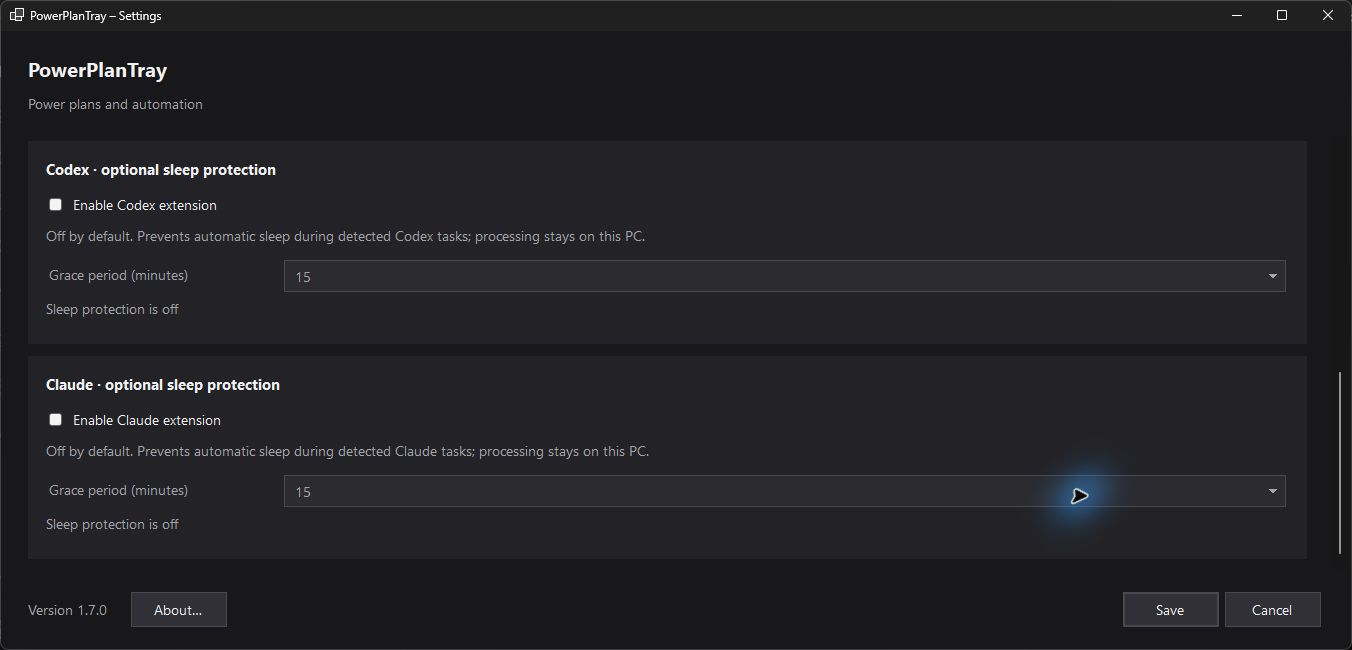
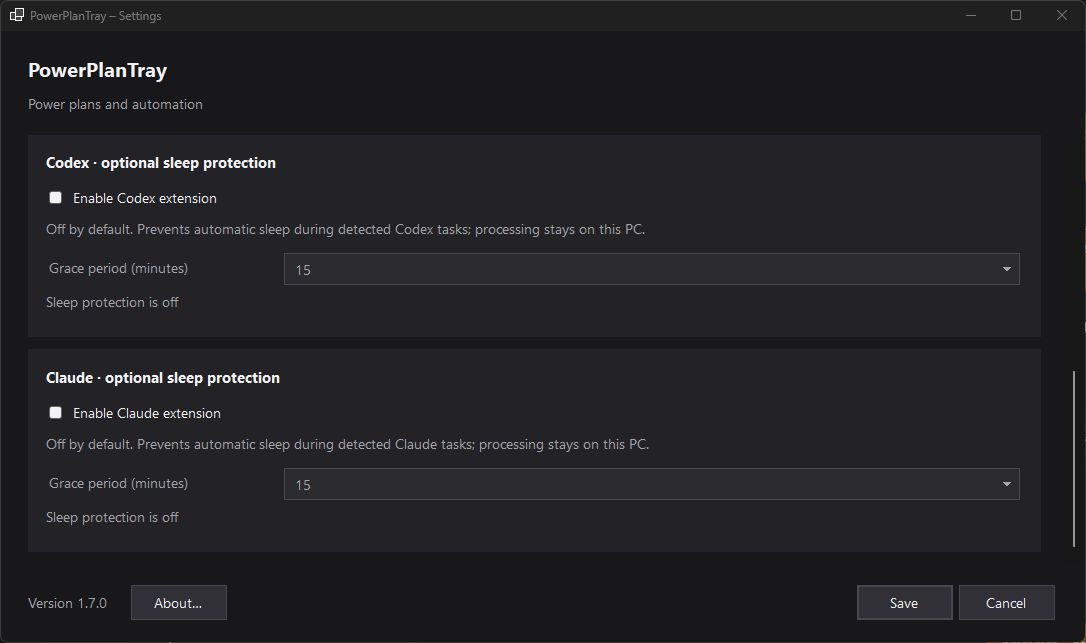
Recapture product screenshots without pointer highlights

diff --git a/docs/screenshots/1.7.0/de-extensions.html b/docs/screenshots/1.7.0/de-extensions.html
@@ -1,1 +1,1 @@
-<!doctype html><html lang="de"><meta charset="utf-8"><title>PowerPlanTray 1.7.0 – Codex und Claude getrennt steuern</title><style>*{box-sizing:border-box}html,body{margin:0;width:1366px;height:768px;overflow:hidden;background:#101114;color:#f2f3f5;font-family:Segoe UI,Arial,sans-serif}header{height:88px;padding:10px 24px;position:relative}h1{margin:0 0 5px;font-size:26px;font-weight:600}p{margin:0;font-size:16px;color:#bfc4ce}b{position:absolute;right:24px;top:20px;font-size:16px;color:#a4d1ff}img{display:block;position:absolute;left:7px;top:88px;width:1352px;height:650px}footer{position:absolute;bottom:7px;left:24px;font-size:12px;color:#afb5bf}</style><header><h1>Codex und Claude getrennt steuern</h1><p>Optionaler Standby-Schutz · Eigene Nachlaufzeit je Erweiterung · Standardmäßig aus</p><b>PowerPlanTray 1.7.0</b></header><img src="de-extensions.jpg" alt="PowerPlanTray 1.7.0"><footer>Originale App-Ansicht mit Beispieldaten</footer></html>
+<!doctype html><html lang="de"><meta charset="utf-8"><title>PowerPlanTray 1.7.0 – Codex und Claude getrennt steuern</title><style>*{box-sizing:border-box}html,body{position:relative;margin:0;width:1366px;height:768px;overflow:hidden;background:#101114;color:#f2f3f5;font-family:Segoe UI,Arial,sans-serif}header{height:88px;padding:10px 24px;position:relative}h1{margin:0 0 5px;font-size:26px;font-weight:600}p{margin:0;font-size:16px;color:#bfc4ce}b{position:absolute;right:24px;top:20px;font-size:16px;color:#a4d1ff}img{display:block;position:absolute;left:140px;top:88px;width:1086px;height:643px}footer{position:absolute;bottom:7px;left:24px;font-size:12px;color:#afb5bf}</style><header><h1>Codex und Claude getrennt steuern</h1><p>Optionaler Standby-Schutz · Eigene Nachlaufzeit je Erweiterung · Standardmäßig aus</p><b>PowerPlanTray 1.7.0</b></header><img src="de-extensions.jpg" alt="PowerPlanTray 1.7.0"><footer>Originale App-Ansicht mit Beispieldaten</footer></html>

diff --git a/docs/screenshots/1.7.0/de-settings.html b/docs/screenshots/1.7.0/de-settings.html
@@ -1,1 +1,1 @@
-<!doctype html><html lang="de"><meta charset="utf-8"><title>PowerPlanTray 1.7.0 – Energiepläne mit einem Klick wechseln</title><style>*{box-sizing:border-box}html,body{margin:0;width:1366px;height:768px;overflow:hidden;background:#101114;color:#f2f3f5;font-family:Segoe UI,Arial,sans-serif}header{height:88px;padding:10px 24px;position:relative}h1{margin:0 0 5px;font-size:26px;font-weight:600}p{margin:0;font-size:16px;color:#bfc4ce}b{position:absolute;right:24px;top:20px;font-size:16px;color:#a4d1ff}img{display:block;position:absolute;left:7px;top:88px;width:1352px;height:650px}footer{position:absolute;bottom:7px;left:24px;font-size:12px;color:#afb5bf}</style><header><h1>Energiepläne mit einem Klick wechseln</h1><p>Eigene Pläne auswählen · Automatik und Windows-Autostart einstellen</p><b>PowerPlanTray 1.7.0</b></header><img src="de-settings.jpg" alt="PowerPlanTray 1.7.0"><footer>Originale App-Ansicht mit Beispieldaten</footer></html>
+<!doctype html><html lang="de"><meta charset="utf-8"><title>PowerPlanTray 1.7.0 – Energiepläne mit einem Klick wechseln</title><style>*{box-sizing:border-box}html,body{position:relative;margin:0;width:1366px;height:768px;overflow:hidden;background:#101114;color:#f2f3f5;font-family:Segoe UI,Arial,sans-serif}header{height:88px;padding:10px 24px;position:relative}h1{margin:0 0 5px;font-size:26px;font-weight:600}p{margin:0;font-size:16px;color:#bfc4ce}b{position:absolute;right:24px;top:20px;font-size:16px;color:#a4d1ff}img{display:block;position:absolute;left:140px;top:88px;width:1086px;height:643px}footer{position:absolute;bottom:7px;left:24px;font-size:12px;color:#afb5bf}</style><header><h1>Energiepläne mit einem Klick wechseln</h1><p>Eigene Pläne auswählen · Automatik und Windows-Autostart einstellen</p><b>PowerPlanTray 1.7.0</b></header><img src="de-settings.jpg" alt="PowerPlanTray 1.7.0"><footer>Originale App-Ansicht mit Beispieldaten</footer></html>

diff --git a/docs/screenshots/1.7.0/en-extensions.html b/docs/screenshots/1.7.0/en-extensions.html
@@ -1,1 +1,1 @@
-<!doctype html><html lang="en"><meta charset="utf-8"><title>PowerPlanTray 1.7.0 – Control Codex and Claude separately</title><style>*{box-sizing:border-box}html,body{margin:0;width:1366px;height:768px;overflow:hidden;background:#101114;color:#f2f3f5;font-family:Segoe UI,Arial,sans-serif}header{height:88px;padding:10px 24px;position:relative}h1{margin:0 0 5px;font-size:26px;font-weight:600}p{margin:0;font-size:16px;color:#bfc4ce}b{position:absolute;right:24px;top:20px;font-size:16px;color:#a4d1ff}img{display:block;position:absolute;left:7px;top:88px;width:1352px;height:650px}footer{position:absolute;bottom:7px;left:24px;font-size:12px;color:#afb5bf}</style><header><h1>Control Codex and Claude separately</h1><p>Optional sleep protection · Separate grace periods · Both off by default</p><b>PowerPlanTray 1.7.0</b></header><img src="en-extensions.jpg" alt="PowerPlanTray 1.7.0"><footer>Original app view with example data</footer></html>
+<!doctype html><html lang="en"><meta charset="utf-8"><title>PowerPlanTray 1.7.0 – Control Codex and Claude separately</title><style>*{box-sizing:border-box}html,body{position:relative;margin:0;width:1366px;height:768px;overflow:hidden;background:#101114;color:#f2f3f5;font-family:Segoe UI,Arial,sans-serif}header{height:88px;padding:10px 24px;position:relative}h1{margin:0 0 5px;font-size:26px;font-weight:600}p{margin:0;font-size:16px;color:#bfc4ce}b{position:absolute;right:24px;top:20px;font-size:16px;color:#a4d1ff}img{display:block;position:absolute;left:140px;top:88px;width:1086px;height:643px}footer{position:absolute;bottom:7px;left:24px;font-size:12px;color:#afb5bf}</style><header><h1>Control Codex and Claude separately</h1><p>Optional sleep protection · Separate grace periods · Both off by default</p><b>PowerPlanTray 1.7.0</b></header><img src="en-extensions.jpg" alt="PowerPlanTray 1.7.0"><footer>Original app view with example data</footer></html>

diff --git a/docs/screenshots/1.7.0/en-settings.html b/docs/screenshots/1.7.0/en-settings.html
@@ -1,1 +1,1 @@
-<!doctype html><html lang="en"><meta charset="utf-8"><title>PowerPlanTray 1.7.0 – Switch power plans with one click</title><style>*{box-sizing:border-box}html,body{margin:0;width:1366px;height:768px;overflow:hidden;background:#101114;color:#f2f3f5;font-family:Segoe UI,Arial,sans-serif}header{height:88px;padding:10px 24px;position:relative}h1{margin:0 0 5px;font-size:26px;font-weight:600}p{margin:0;font-size:16px;color:#bfc4ce}b{position:absolute;right:24px;top:20px;font-size:16px;color:#a4d1ff}img{display:block;position:absolute;left:7px;top:88px;width:1352px;height:650px}footer{position:absolute;bottom:7px;left:24px;font-size:12px;color:#afb5bf}</style><header><h1>Switch power plans with one click</h1><p>Choose your plans · Configure automation and Windows startup</p><b>PowerPlanTray 1.7.0</b></header><img src="en-settings.jpg" alt="PowerPlanTray 1.7.0"><footer>Original app view with example data</footer></html>
+<!doctype html><html lang="en"><meta charset="utf-8"><title>PowerPlanTray 1.7.0 – Switch power plans with one click</title><style>*{box-sizing:border-box}html,body{position:relative;margin:0;width:1366px;height:768px;overflow:hidden;background:#101114;color:#f2f3f5;font-family:Segoe UI,Arial,sans-serif}header{height:88px;padding:10px 24px;position:relative}h1{margin:0 0 5px;font-size:26px;font-weight:600}p{margin:0;font-size:16px;color:#bfc4ce}b{position:absolute;right:24px;top:20px;font-size:16px;color:#a4d1ff}img{display:block;position:absolute;left:140px;top:88px;width:1086px;height:643px}footer{position:absolute;bottom:7px;left:24px;font-size:12px;color:#afb5bf}</style><header><h1>Switch power plans with one click</h1><p>Choose your plans · Configure automation and Windows startup</p><b>PowerPlanTray 1.7.0</b></header><img src="en-settings.jpg" alt="PowerPlanTray 1.7.0"><footer>Original app view with example data</footer></html>

diff --git a/docs/screenshots/1.7.0/README.md b/docs/screenshots/1.7.0/README.md
@@ -4,4 +4,6 @@ The JPEG files are original Windows captures of the actual 1.7.0 SettingsForm an
 
 The `extensions-default` views show fresh settings; the `extensions` views show both extensions selected as an example. Each extension has its own grace period.
 
+The settings and extension views were recaptured on 4 November 2026 with the pointer outside the product window, so no pointer or mouse-highlight effect appears in the images.
+
 The `store-*.png` files frame the original captures with localized headings at the Microsoft Store desktop minimum of 1366 × 768. The underlying app view is shown at its original size without changing its controls or text. The matching HTML files are the frame sources.
